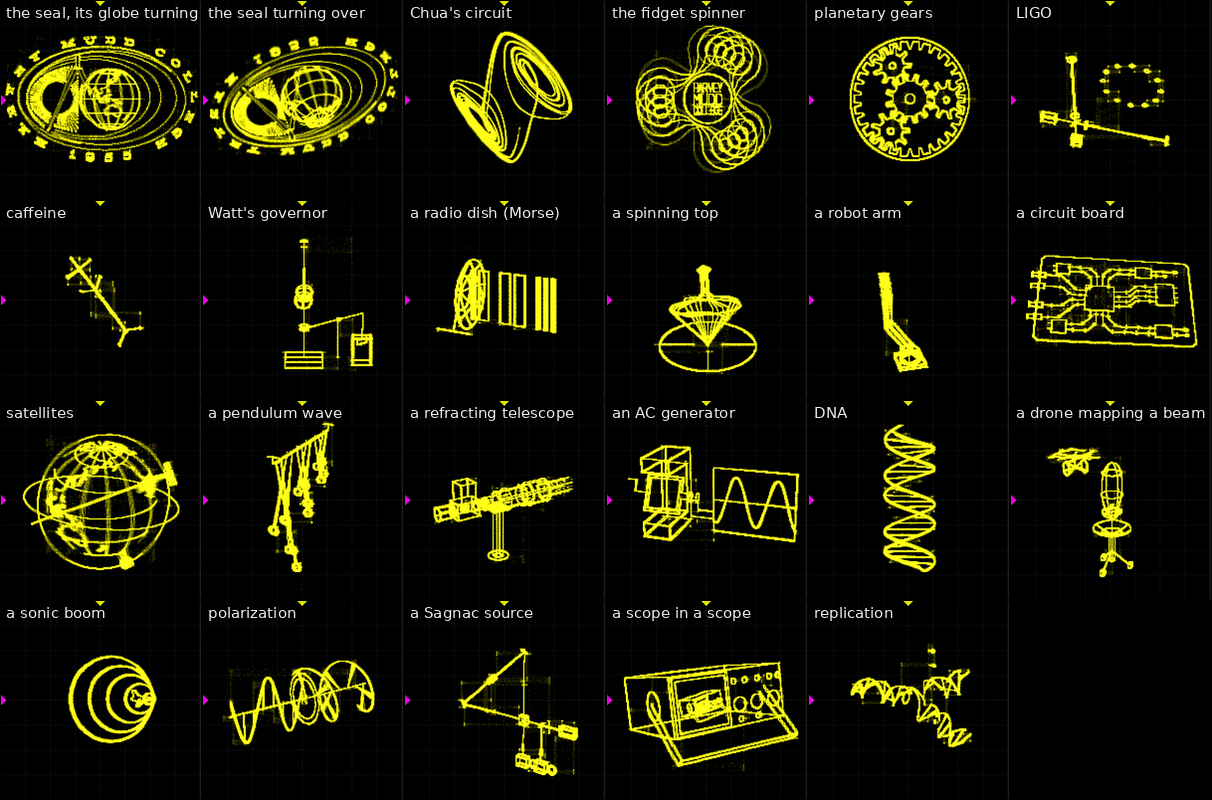
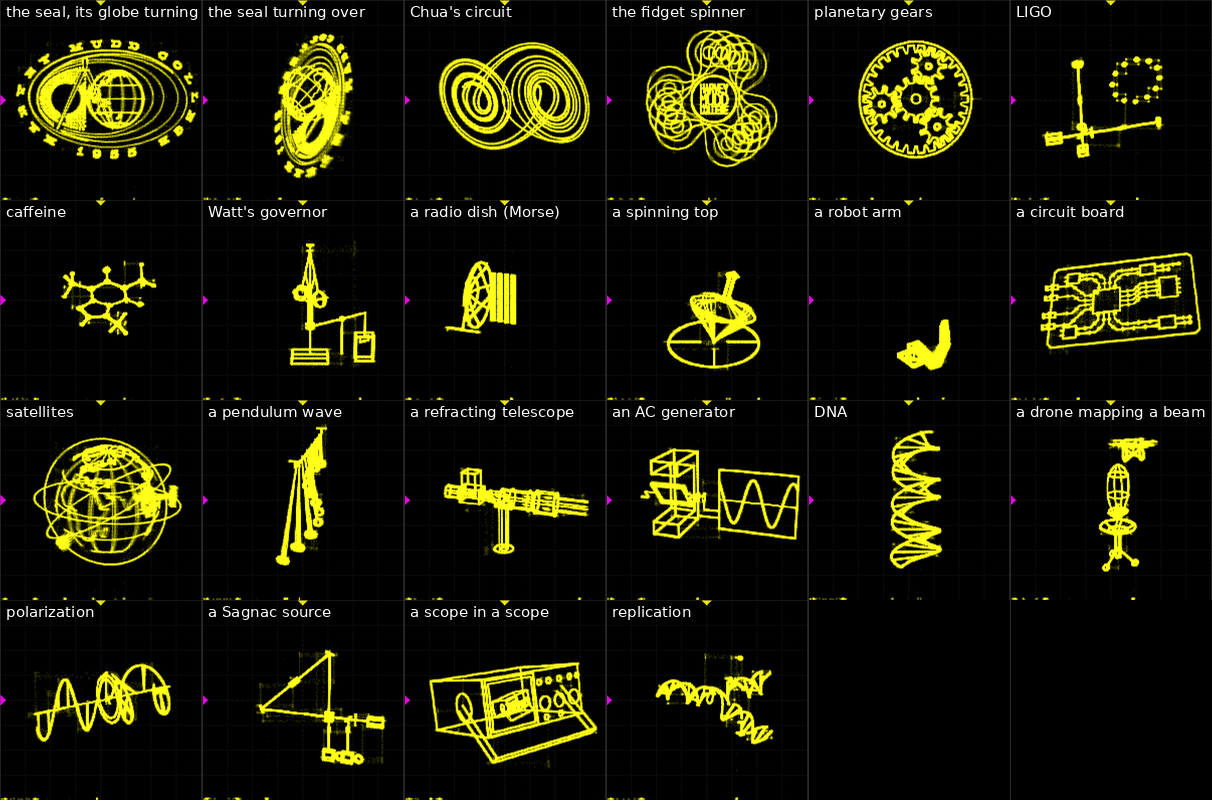
5.08's show dithered (Prompt 33): the engine's last 4 bits into the 8-bit DAC by first-order error feedback at 50 MS/s, so nearly level lines are no longer stairs (on at power-up; host/show.py dither 0/1, register 13); a host drawing no longer loses its first stroke (the scene memory's write address
Claude-Session: https://claude.ai/code/session_01Uf588ECW3Wg4MoPZTbtZCt

diff --git a/src/xyshow/host/show.py b/src/xyshow/host/show.py
@@ -8,6 +8,8 @@ write, bits 6:0 the register), then four data bytes, least significant first; a 
     python3 host/show.py mode 1           hold the X board in mode 1 (the seal and its globe) or 2 (the seal turning over)
     python3 host/show.py finale 12        hold the 13th finale (they count from 0, in make_show.py's FINALES order)
     python3 host/show.py auto             back to the show
+    python3 host/show.py dither 0         both boards' DACs rounded to 8 bits: the stairs on nearly level lines; `dither 1`
+                                          puts back the sub-code dither (the default at power-up)
     python3 host/show.py draw "HELLO"     your own drawing: stroke letters into both boards' free scene memory, shown in
                                           mode 4 and turning over as the seal does (auto ends it)
 
@@ -88,6 +90,8 @@ if __name__ == "__main__":
     elif a[0] == "mode": B["X"].wr(0x10, 0x005 | (int(a[1]) << 4)); print(B["X"].status())
     elif a[0] == "finale": B["X"].wr(0x10, 0x005 | (3 << 4) | ((int(a[1]) & 31) << 9)); print(B["X"].status())
     elif a[0] == "auto": B["X"].wr(0x10, 0x007); print(B["X"].status())
+    elif a[0] == "dither":                                                       # register 13; each board dithers its own DAC
+        for r in sorted(B): B[r].wr(0x13, int(a[1]) & 1); print(r, "dither", B[r].rd(0x13))
     elif a[0] == "draw":
         import vector
         print(draw(B, vector.centred_text(" ".join(a[1:]), size=0.5)), "vertices drawn; `python3 host/show.py auto` to go back")

diff --git a/tutorial/5_08_xy_show.md b/tutorial/5_08_xy_show.md
@@ -199,16 +199,34 @@ lines. A hidden vertex costs no beam time at all; the next visible one is reache
 Then perspective: a point at depth *z* appears *P*/(*P* + *z*) times its size, with the eye at
 *P* = 5 (the seal being 2 wide). Dividing is slow in logic, so the factor comes from a table of
 512 entries indexed by *z*, written by Python, and the projection is two more multiplications.
-The result is rounded to the nearest of the engine's 4096 codes, and then to the DAC's 256. (It
-was truncated at first, and the globe's equator, which lies exactly on the centre line, flickered
-between DAC codes 127 and 128 as the globe turned. Rounding fixed it: `to8` in
-[`rtl/top_icepi.v`](../src/xyshow/rtl/top_icepi.v).)
+The result is rounded to the nearest of the engine's 4096 codes. (It was truncated at first, and
+the globe's equator, which lies exactly on the centre line, flickered between DAC codes 127 and
+128 as the globe turned.)
+
+### Between the DAC's codes: dither
+
+The engine has 16 steps for each of the DAC's codes, and the DAC has 256 codes. Rounded to 8 bits,
+a line that is nearly level climbs one code in a single step, and on an analog scope it looks like
+a staircase. So the last 4 bits are not thrown away. Each clock's rounding error is added to the
+next clock's value. A value 5/16 of the way from one code to the next is then output as the
+higher code 5 clocks in 16 and the lower one the rest of the time. This is *error feedback*, the
+simplest form of [noise shaping](https://en.wikipedia.org/wiki/Noise_shaping). The DAC runs at
+50 MS/s, so the toggling sits up near 25 MHz, which the DAC's amplifier and the scope smooth
+out. The beam ends up between the two codes, and the stair becomes a smooth line. From
+[`rtl/top_icepi.v`](../src/xyshow/rtl/top_icepi.v):
 
 ```verilog
-// the engine's 12-bit codes to the 8-bit DAC, rounded: code k covers 16k - 8 .. 16k + 7, so the screen's centre line (2048,
-// where the upright globe's equator lies) is in the middle of code 128, not on the edge between 127 and 128
-function [7:0] to8(input [11:0] v); reg [12:0] r; begin r = {1'b0, v} + 13'd8; to8 = r[12] ? 8'd255 : r[11:4]; end endfunction
+reg signed [4:0] derr = 5'sd0;                                      // the last rounding error, -8..7 sixteenths of a code
+wire [13:0] dsum = {2'b0, (ROLE == 0) ? vx : vy} + ((ROLE == 0) ? {2'b0, X_OFFSET} : 14'd0) + 14'd8;
+wire signed [15:0] dw = $signed({2'b0, dsum}) + (dither ? derr : 5'sd0);
+wire dlo = dw < 16'sd0, dhi = dw > 16'sd4095;                        // past the DAC's ends: held there, the error dropped
+wire [7:0] dq = dlo ? 8'd0 : dhi ? 8'd255 : dw[11:4];
+always @(posedge clk) derr <= (dither && !dlo && !dhi) ? $signed({1'b0, dw[3:0]}) - 5'sd8 : 5'sd0;
 ```
+
+The `+ 8` rounds: code *k* covers 16*k* − 8 to 16*k* + 7, so the screen's centre line (2048) is
+in the middle of code 128. `python3 host/show.py dither 0` turns the dither off on both boards,
+and `dither 1` turns it back on: watch a nearly level line while you do.
 
 ### The line generator, and why there's a FIFO
 
@@ -470,8 +488,8 @@ Every 20 ms, board X stops drawing, parks its beam, and sends a burst on its DAC
 code 0, then 920 bits at four samples each, low at code 0 and high at code 40. That's 148 µs, about
 1% of the time. The burst is drawn too: a short streak along the bottom-left edge of the
 picture, which you can point to. Board X's drawing stays clear of the gap's code 0: it uses codes
-16 to 255, its 12-bit codes rounded to 8 bits 7.5 codes higher than board Y's (`to8x` in
-[`rtl/top_icepi.v`](../src/xyshow/rtl/top_icepi.v)). Board Y's ADC sees board X's DAC through the tee.
+16 to 255, its 12-bit codes turned into 8 bits 7.5 codes higher than board Y's (`X_OFFSET`
+in [`rtl/top_icepi.v`](../src/xyshow/rtl/top_icepi.v)). Board Y's ADC sees board X's DAC through the tee.
 
 ```verilog
 reg [W-1:0] sh = 0; reg [12:0] n = 0; reg [1:0] sc = 0; reg [7:0] acc = 0; reg [9:0] b = 0;
@@ -593,12 +611,11 @@ finale, from the simulation (a finale's tile is all the samples recorded of it):
 the animator, with a model of the beam and its persistence, so a new finale can be judged before
 a build.
 
-**On the bench.** A digital scope (Siglent SDS1104X-E in XY, 10 MS/s) took these on 2026-11-09,
-from the boards running the bitstreams `make` built then. The show has changed a little since:
-the sonic boom has left it, the drone's antenna is horizontal, and the drawing uses more of the
-DACs' range.
+**On the bench.** A digital scope (Siglent SDS1104X-E in XY at 1 V/div, 10 MS/s) took these,
+from the boards running the bitstreams `make` builds (the dots along the bottom edge are the
+burst):
 
-<img src="img/xyshow_siglent.png" alt="Screenshots of a digital oscilloscope in XY mode showing every part of the show from the two boards on 2026-11-09: the seal with its globe, the seal turned over, and the 21 finales then in it" width="800">
+<img src="img/xyshow_siglent.png" alt="Screenshots of a digital oscilloscope in XY mode showing every part of the show from the two boards: the seal with its globe, the seal turned over, and the 20 finales" width="800">
 
 **On an analog scope.** The digital scope samples at 10 MS/s, and its persistence hides what the
 beam does between samples. The analog scope at the top of this page shows everything, and it
@@ -613,7 +630,14 @@ found the problems the simulations didn't:
 | ghost lines in empty parts of the screen | the strokes were in the order they were made, so the jumps between them were as long as the drawing | strokes reordered, nearest end first |
 | the equator jumping up and down a little | it lies exactly on the boundary between DAC codes 127 and 128, and truncation put it on either | round to the nearest code |
 | a rectangle of spots, now and then | board Y computed its matrices from phases a millisecond later than board X's | board X's phases held still from its animator to its burst |
-| nearly level and nearly upright lines drawn as stairs | the 8-bit DAC: a line that climbs one code climbs it in one step, 1/256 of the DAC's range | more of the range: codes 16 to 255 for board X and 9 to 248 for board Y, not 25 to 230; the burst's streak moved to the picture's edge |
+| nearly level and nearly upright lines drawn as stairs | the 8-bit DAC: a line that climbs one code climbs it in one step, 1/256 of the DAC's range | more of the range (codes 16 to 255 for board X and 9 to 248 for board Y, not 25 to 230; the burst's streak moved to the picture's edge), and the dither between codes |
+
+The digital scope found one more: a drawing sent from the laptop lost its first stroke. The
+design came from a board whose engine runs on a second clock, so a write to the scene memory
+reached the engine a clock or two after the address had stepped on, and the engine wrote to
+`vaddr_h - 1`. On the Icepi Zero everything runs on one clock, the write lands before the step, and
+`- 1` put every vertex one place early. The address is now `vaddr_h`. Moving code between clock
+domains moves its off-by-ones too.
 
 ## The finales
 

diff --git a/dev/CLAUDE_CODE_CHAT.md b/dev/CLAUDE_CODE_CHAT.md
@@ -3230,3 +3230,15 @@ The show in `src/xyshow/` changed the same way as OpticsPCBs' copy.  Its ten tab
 - **5.08:** 20 finales, the new budgets (7,409 vertices, 2,597 instructions, 783 free), 1 V/div, the burst and threshold paragraphs, a row for the stairs in the analog-scope table, the tek's row, the seal at 1,300 frames a second, and a new simulation sheet.  The bench grid of Siglent screenshots is still 2026-11-09's, now dated in its caption: the Siglent's inputs read 0 V today, presumably because the BNCs are on the Tek.
 
 **Board state:** both boards run the new show from flash, in step.  The Siglent is at 0.8 V/div, XY, as found.
+
+## Prompt 33
+
+(From the OpticsPCBs session, its prompt 90.)  Yes, dither the last code bit, with a "probability" that is proportional to how far between the 12-bit value lies..... or use some more clever deterministic noise-shaping kind of dither. Whatever. But please get rid of the stair steps.
+
+## Response 33 2026-11-10 16:15:00 - 16:50:00 Claude Opus 5.5
+
+`src/xyshow/rtl/top_icepi.v` now dithers the engine's last 4 bits into the 8-bit DAC.  It uses first-order error feedback at the DAC's 50 MS/s: each clock's rounding error is added to the next.  It is on at power-up; `python3 host/show.py dither 0` turns it off, and `dither 1` turns it back on.  On the Siglent, a held line rising 7 codes over 215 shows 7 stairs without the dither and a smooth ramp with it.
+
+The bench also found that a drawing sent from the laptop lost its first stroke.  The write address `vaddr_h - 1` came from the ECP5 board's two clock domains; here there is one, so it is now `vaddr_h`.
+
+5.08 has a section on the dither, with its code, and a note on the address fix.  The bench grid was retaken at 1 V/div with the dither on.  The Verilog is identical to OpticsPCBs' (code lines), and the tables are byte-identical.  Built, `make sim` PASS, flashed into DK0GFLAW (X) and DP051TLX (Y), in step with 0 bad bursts.  `make check`: 0 errors.  The Siglent is back at 0.8 V/div.
